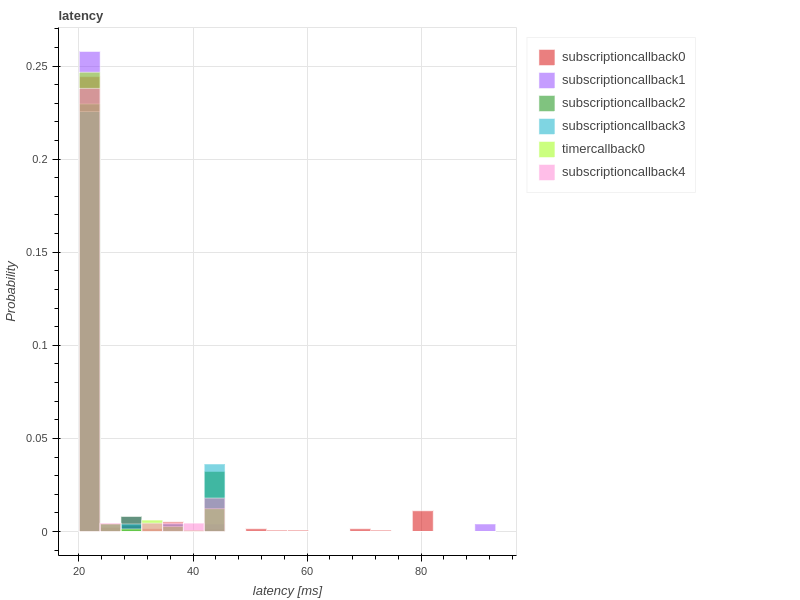
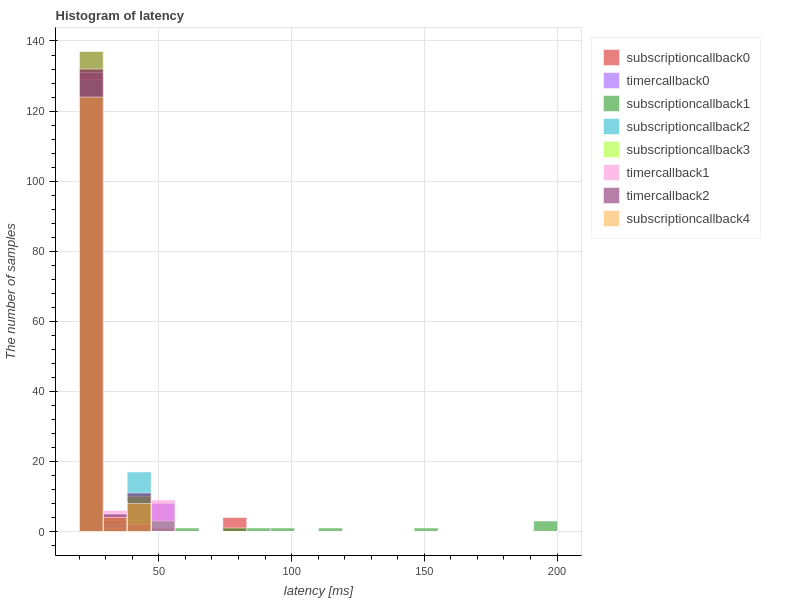
fix: y-axis of histogram probability to the number of samples (#313)
* fix: x-axis of histogram probability to the number of samples

* fix: expression of y-axis

* ci(pre-commit): autofix

---------

diff --git a/docs/visualization/frequency/index.md b/docs/visualization/frequency/index.md
@@ -57,7 +57,7 @@ plot.show()
 
 ![callback_frequency_histogram](../../imgs/callback_frequency_histogram.png)
 
-The horizontal axis means frequency, labeled as `frequency [Hz]`. The vertical axis is the probability of execution at that frequency, labeled `probability`.
+The horizontal axis represents the frequency, labeled as `frequency [Hz]`. The vertical axis represents the number of samples executed at each frequency, labeled as `The number of samples`.
 
 ## Communication
 
@@ -102,7 +102,7 @@ plot.show()
 
 ![communication_frequency_histogram](../../imgs/communication_frequency_histogram.png)
 
-The horizontal axis means frequency, labeled as `frequency [Hz]`. The vertical axis is the probability of execution at that frequency, labeled `probability`.
+The horizontal axis represents the frequency, labeled as `frequency [Hz]`. The vertical axis represents the number of samples executed at each frequency, labeled as `The number of samples`.
 
 ## Publish and Subscription
 

diff --git a/docs/visualization/period/index.md b/docs/visualization/period/index.md
@@ -57,7 +57,7 @@ plot.show()
 
 ![callback_period_histogram](../../imgs/callback_period_histogram.png)
 
-The horizontal axis means period, labeled as `period [ms]`. The vertical axis is the probability of execution at that period, labeled `probability`.
+The horizontal axis represents the period, labeled as `period [ms]`. The vertical axis represents the number of samples executed at each period, labeled as `The number of samples`.
 
 ## Communication
 
@@ -102,7 +102,7 @@ plot.show()
 
 ![communication_period_histogram](../../imgs/communication_period_histogram.png)
 
-The horizontal axis means period, labeled as `period [ms]`. The vertical axis is the probability of execution at that period, labeled `probability`.
+The horizontal axis represents the period, labeled as `period [ms]`. The vertical axis represents the number of samples executed at each period, labeled as `The number of samples`.
 
 ## Publish and Subscription
 

diff --git a/docs/visualization/latency/index.md b/docs/visualization/latency/index.md
@@ -56,7 +56,7 @@ plot.show()
 
 ![callback_latency_histogram](../../imgs/callback_latency_histogram.png)
 
-The horizontal axis means latency, labeled as `Latency [ms]`. The vertical axis is the probability of execution at that latency, labeled `probability`.
+The horizontal axis represents the latency, labeled as `latency [ms]`. The vertical axis represents the number of samples executed at each latency, labeled as `The number of samples`.
 
 ## Communication
 
@@ -108,4 +108,4 @@ plot.show()
 
 ![communication_latency_histogram](../../imgs/communication_latency_histogram.png)
 
-The horizontal axis means latency, labeled as `Latency [ms]`. The vertical axis is the probability of execution at that latency, labeled `probability`.
+The horizontal axis represents the latency, labeled as `latency [ms]`. The vertical axis represents the number of samples executed at each latency, labeled as `The number of samples`.

diff --git a/docs/visualization/path/response_time.md b/docs/visualization/path/response_time.md
@@ -38,7 +38,7 @@ path = app.get_path('target_path')
 
 ## Histogram
 
-The following scripts generate histograms of response time. Horizontal axis of the histograms means response time, labeled `Response Time [ms]` and vertical axis of the histograms means `Probability`.
+The following scripts generate histograms of response time. Horizontal axis of the histograms represents the response time, labeled as `response time [ms]` and vertical axis of the histograms represents `The number of samples`.
 
 ```python
 # plot all case
